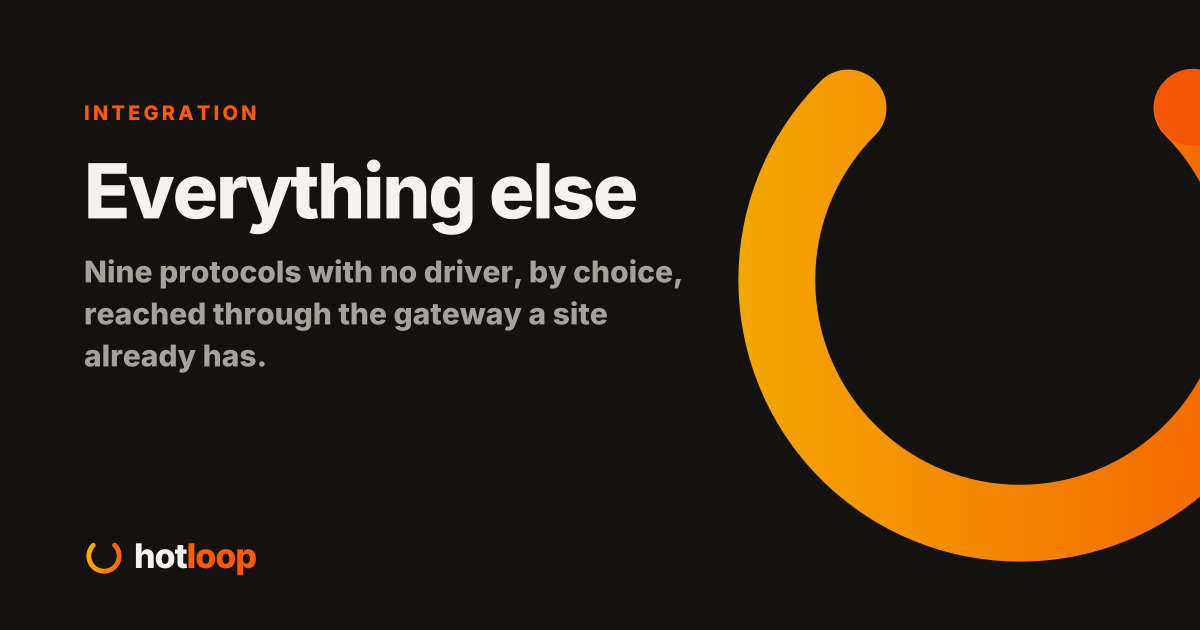
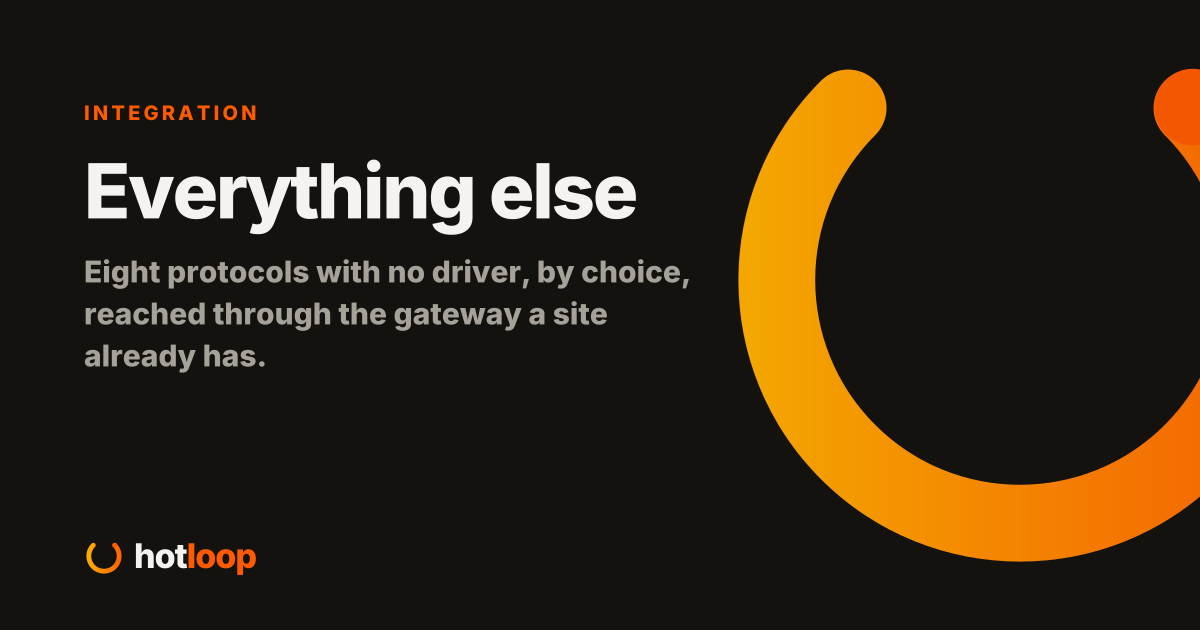
docs(site): SNMP and BACnet/IP have pages, the driver count is ten, and BACnet is no longer on the list of protocols with no driver (#38)
Each page says exactly what it was tried against and that neither has been read off physical gear.

Changed region(s): [[0.0617, 0.3921, 0.5858, 0.4524]]

diff --git a/src/lib/products.ts b/src/lib/products.ts
@@ -126,7 +126,7 @@ export const IOT_FEATURES: Feature[] = [
   { name: 'Historian targets', status: 'released', note: 'Every reading also goes to the plant\'s own database: PostgreSQL and TimescaleDB, SQL Server, InfluxDB 2 and 3, MySQL and MariaDB. Same readings, same deadband, same quality. Polling never waits for a target, and one that falls behind catches up from HotLoop\'s own history.' },
   { name: 'SQLite or PostgreSQL, your pick', status: 'released', note: 'The database is a setting. A Pi can run any product on a SQLite file with no second container and no 300 MB database image on the SD card. Moving between databases is a backup and a restore.' },
   { name: 'Updates that roll themselves back', status: 'released', note: 'Quadlet boxes follow the stable tag and update themselves, and an update that can\'t pass its healthcheck is rolled back instead of reported as a success. On Helm (Kubernetes) you run the upgrade. Rolling back is only safe because migrations only add.' },
-  { name: 'Every protocol driver', status: 'released', note: 'OPC UA, Modbus, MQTT and Sparkplug B, EtherNet/IP, S7comm, MTConnect, HTTP, and UniFi. Protocols don\'t split the products, so nobody runs the Gateway just to reach one PLC.' },
+  { name: 'Every protocol driver', status: 'released', note: 'OPC UA, Modbus, MQTT and Sparkplug B, EtherNet/IP, S7comm, MTConnect, HTTP, SNMP, BACnet/IP, and UniFi. Protocols don\'t split the products, so nobody runs the Gateway just to reach one PLC.' },
   { name: 'UniFi, read-only', status: 'released', note: 'Devices, ports, PoE, WAN failover, and clients as tags, and a quiet PLC tells you which switch port it\'s on. WAN health comes from the console\'s own checks, so a backup link that\'s been dead for two days reads dead. Read on two real consoles, though a PoE draw above zero has not been seen yet. Nothing writes to a console yet.' },
   { name: 'UniFi screens and events', status: 'released', note: 'An overview with the WAN strip, a topology map that zooms and pinches and is laid out the same way every time, switch faceplates with port traffic traces, clients, networks, and WiFi, one button that makes the usual alarms, and the console\'s event stream so a switch dropping off lands in the logbook in seconds. An agent can ask over MCP for the topology and the latest events. Proven against a lab controller, with touch emulated, and not yet looked at on real gear.' },
   { name: 'UniFi writes', status: 'planned', note: 'Writes through the gate, starting with the locate LED. Then Protect, Access and PDUs, each only after it has run on real gear. Nothing writes to a console today.' },
